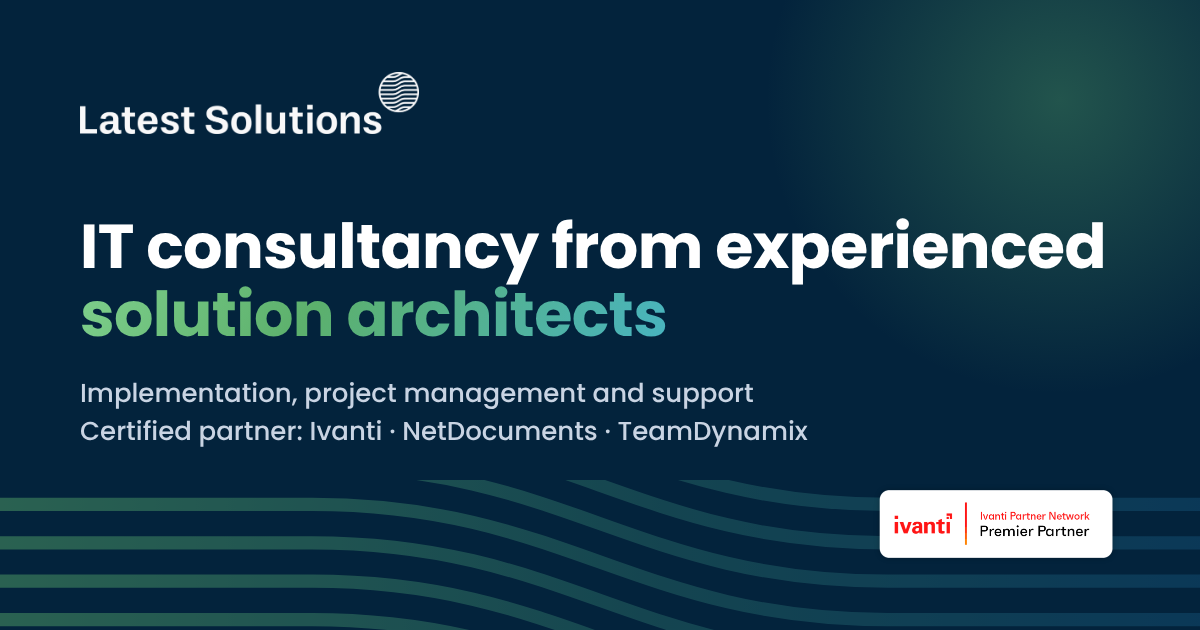
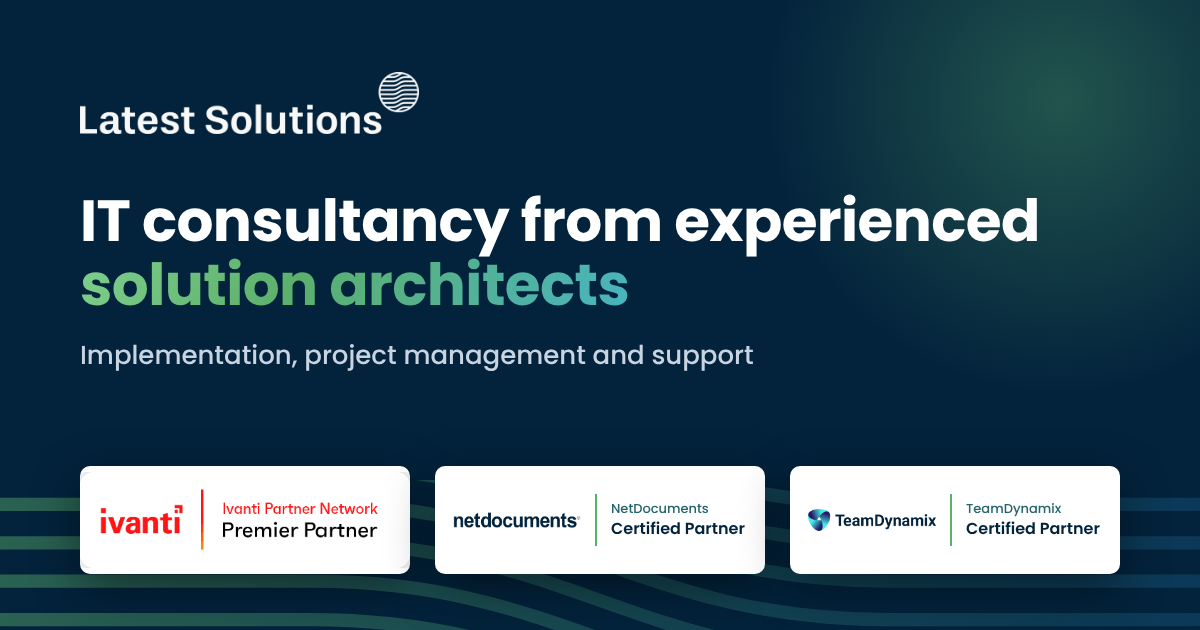
Show NetDocuments and TeamDynamix partner badges in the link preview image
The preview image showed only the Ivanti Premier Partner badge. It now shows
three matching cards: Ivanti Premier Partner, NetDocuments Certified Partner
and TeamDynamix Certified Partner. The image URL gets ?v=2 so apps that
cached the old image fetch the new one.

Claude-Session: https://claude.ai/code/session_01RmG8fFyS7jbF8QHHfKrNBv

Changed region(s): [[0.0617, 0.3016, 0.9558, 0.9349]]

diff --git a/scripts/og/og-image.html b/scripts/og/og-image.html
@@ -8,16 +8,27 @@
   .waves{position:absolute;left:0;right:0;bottom:-110px;height:260px;width:100%;opacity:.45}
   .glow{position:absolute;right:-180px;top:-220px;width:640px;height:640px;border-radius:50%;background:radial-gradient(circle,rgba(92,176,108,.35),rgba(3,35,60,0) 65%)}
   .logo{height:62px;position:relative}
-  h1{position:relative;font-size:62px;line-height:1.1;font-weight:700;margin:72px 0 26px;letter-spacing:-.01em;max-width:1040px}
+  h1{position:relative;font-size:58px;line-height:1.1;font-weight:700;margin:48px 0 20px;letter-spacing:-.01em;max-width:1040px}
   h1 span{background:linear-gradient(120deg,#7fd08c,#5cb06c 40%,#48b4c2);-webkit-background-clip:text;background-clip:text;color:transparent}
   p{position:relative;font-size:26px;line-height:1.45;font-weight:500;color:#c9d4e3;margin:0}
-  .badge{position:absolute;right:80px;bottom:64px;height:84px}
+  .badges{position:absolute;left:80px;right:80px;bottom:56px;display:flex;justify-content:space-between}
+  .badges>*{flex:none;width:330px;height:108px;box-sizing:border-box;filter:drop-shadow(0 14px 24px rgba(0,0,0,.45))}
+  .badges>img{object-fit:contain;background:#fff;border-radius:10px}
+  .pb{background:#fff;border-radius:10px;display:flex;align-items:center;gap:14px;padding:0 18px;color:#03233c}
+  .pb img{flex:none;width:128px;max-height:30px;object-fit:contain;object-position:left center}
+  .pb .div{flex:none;width:2px;height:52px;background:#5cb06c}
+  .pb .t{font-size:13px;line-height:1.35;font-weight:500;color:#24646c;white-space:nowrap}
+  .pb .t b{display:block;font-size:16px;font-weight:600;color:#03233c}
 </style></head>
 <body><div class="card">
   <div class="glow"></div>
   <img class="waves" src="../../public/images/brand/waves.svg">
   <img class="logo" src="../../public/images/shared/latest-solutions-full-white.png">
   <h1>IT consultancy from experienced <span>solution architects</span></h1>
-  <p>Implementation, project management and support<br>Certified partner: Ivanti · NetDocuments · TeamDynamix</p>
-  <img class="badge" src="../../public/images/shared/ivanti-premier-partner-badge.png">
+  <p>Implementation, project management and support</p>
+  <div class="badges">
+    <img src="ivanti-premier-badge-cropped.png">
+    <div class="pb"><img src="netdocuments-logo-navy.png"><span class="div"></span><span class="t">NetDocuments<b>Certified Partner</b></span></div>
+    <div class="pb"><img src="teamdynamix-logo-navy.png"><span class="div"></span><span class="t">TeamDynamix<b>Certified Partner</b></span></div>
+  </div>
 </div></body></html>
